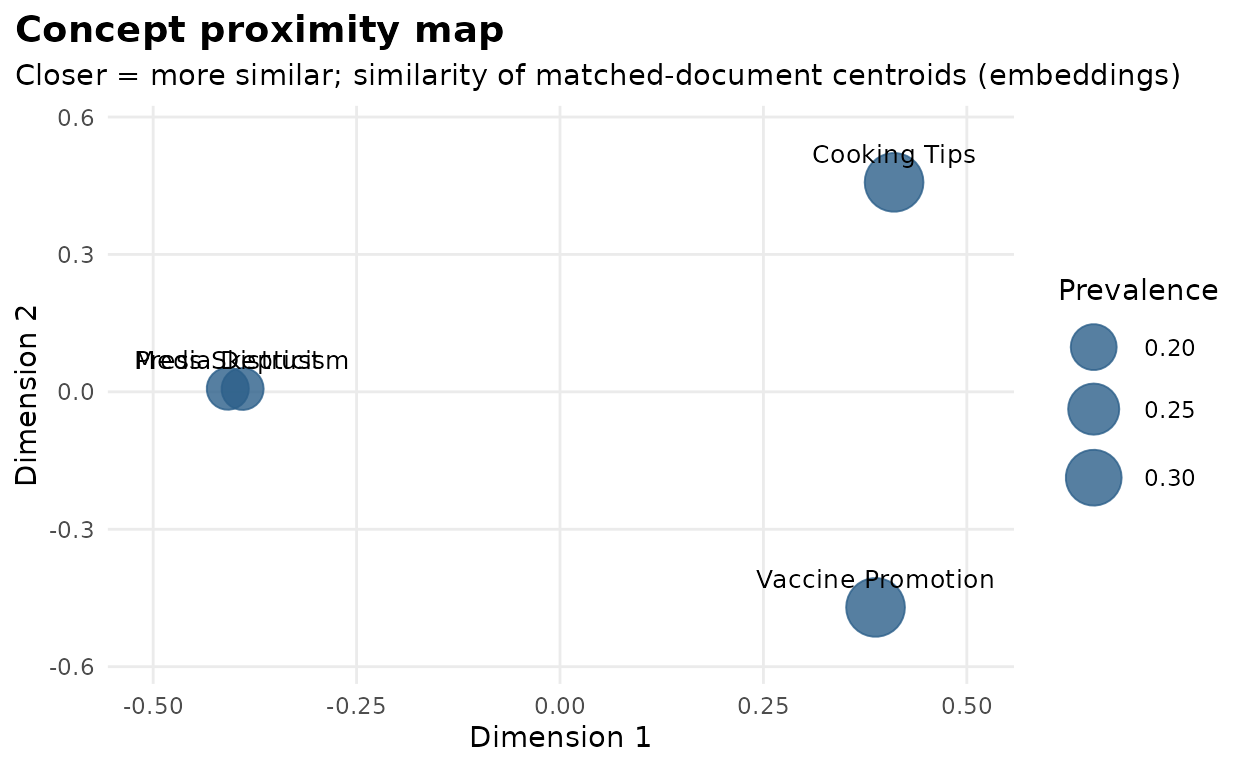
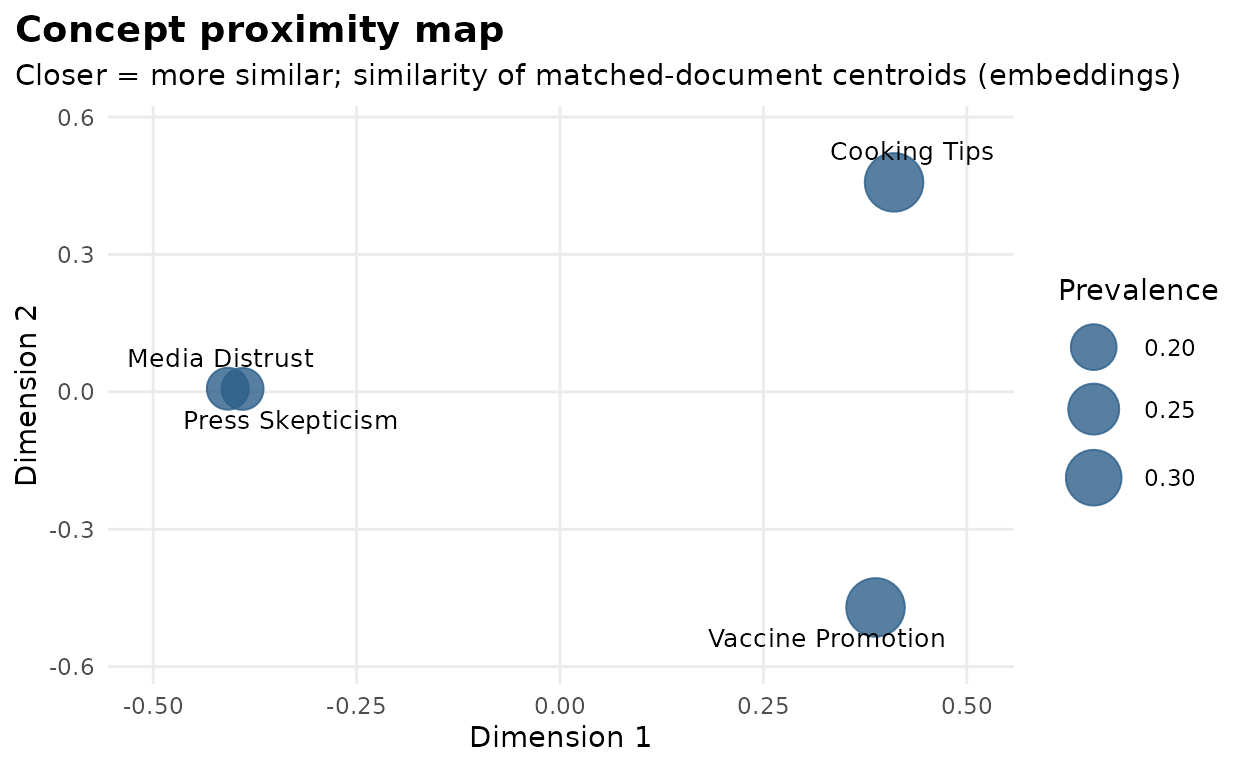
Deploying to gh-pages from @ zilinskyjan/lloomr@b6a7b3b5339d8ea8340081e096f194b3fe4aa7f4 🚀

diff --git a/reference/lloom_concept_map.html b/reference/lloom_concept_map.html
@@ -106,6 +106,11 @@ sizing and the <code>"centroids"</code> method). Default 1.</p></dd>
 attribute <code>"similarity"</code>, and the MDS coordinates as attribute
 <code>"coords"</code>.</p>
     </div>
+    <div class="section level2">
+    <h2 id="details">Details<a class="anchor" aria-label="anchor" href="#details"></a></h2>
+    <p>Labels are placed with <span class="pkg">ggrepel</span> when it is installed (recommended
+— concepts that plot close together otherwise get overlapping labels).</p>
+    </div>
 
     <div class="section level2">
     <h2 id="ref-examples">Examples<a class="anchor" aria-label="anchor" href="#ref-examples"></a></h2>

diff --git a/reference/lloom_concept_map.md b/reference/lloom_concept_map.md
@@ -53,6 +53,11 @@ lloom_concept_map(
 A ggplot object. The similarity matrix is attached as attribute
 `"similarity"`, and the MDS coordinates as attribute `"coords"`.
 
+## Details
+
+Labels are placed with ggrepel when it is installed (recommended —
+concepts that plot close together otherwise get overlapping labels).
+
 ## Examples
 
 ``` r